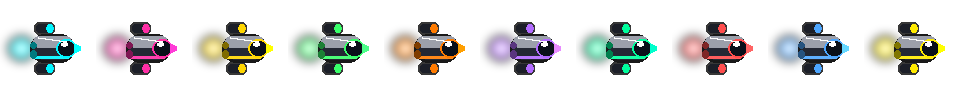
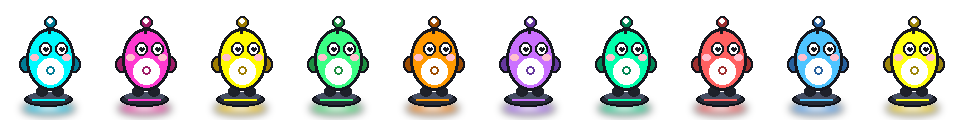
Arcade-kids art direction: pastel world, chibi hoverboarders, iso-extruded turf
- chars.png: chunky 3/4-view bean kids on hoverboards (big eyes, blush,
  antenna bobble) — lean into turns, squash-stretch bob, blob shadows
- floor.png: pastel periwinkle checker picnic-mat with candy sprinkles
- tile.png: rounded candy bevel overlay; territory alpha up for pop
- territory renders as extruded blocks: darker side faces + light top seam
  on exposed south/east edges (fake-isometric height)
- shards: candy crystals with white rims, facet shading, sparkle star
- palette bumped to saturated toy colors (matches sprite sheet)
- vignette/arena frame softened from black to soft purple
- v0.6.0-beta

diff --git a/index.html b/index.html
@@ -33,7 +33,7 @@
   #joyKnob{position:absolute;width:48px;height:48px;border-radius:50%;background:rgba(0,245,255,.85);box-shadow:0 0 16px #00f5ff;left:31px;top:31px}
   input{name:0}
   .stat-num{font-weight:900;font-size:20px;line-height:1}
-  .vignette{position:absolute;inset:0;pointer-events:none;background:radial-gradient(ellipse at center,transparent 55%,rgba(0,0,0,.55) 100%);z-index:5}
+  .vignette{position:absolute;inset:0;pointer-events:none;background:radial-gradient(ellipse at center,transparent 58%,rgba(45,35,100,.32) 100%);z-index:5}
   @keyframes blink{50%{opacity:.3}} .blink{animation:blink 1s infinite}
   /* ===== MAIN MENU ===== */
   .menu-body{max-height:min(62vh,600px);overflow-y:auto;padding:14px 16px;scrollbar-width:thin}
@@ -245,7 +245,7 @@
 // ===== CONSTANTS =====
 const W=54,H=54,CELL=24,DIRS=[[1,0],[-1,0],[0,1],[0,-1]];
 const BOT_NAMES=["VoidFox","NeonNinja","PixelPanda","GlitchQueen","TurboTurtle","CosmicCat","ShadowByte","MangoMantis","CyberWolf","LunaLynx"];
-const PALETTE=["#00f5ff","#ff2ea6","#ffd600","#39ff6a","#ff7b00","#b26bff","#00ff9d","#ff4d4d","#4da6ff","#ffea00"];
+const PALETTE=["#00c8f5","#ff2ea6","#ffc800","#2fe86a","#ff7b00","#a35bff","#00d98a","#ff4d4d","#3f9dff","#ffd80f"];
 const canvas=document.getElementById('game'),ctx=canvas.getContext('2d');
 let CW=0,CH=0,scale=1;
 function resize(){CW=canvas.width=innerWidth;CH=canvas.height=innerHeight;scale=CW<620?0.82:(CW<1000?0.95:1.08);} addEventListener('resize',resize);resize();
@@ -257,6 +257,7 @@ const IMG={};let floorPat=null;
 const idx=(x,y)=>y*W+x, inB=(x,y)=>x>=0&&x<W&&y>=0&&y<H;
 const rnd=(a,b)=>a+Math.random()*(b-a), rint=(a,b)=>Math.floor(rnd(a,b+1)), clamp=(v,a,b)=>Math.max(a,Math.min(b,v));
 function shuffle(a){for(let i=a.length-1;i>0;i--){const j=Math.floor(Math.random()*(i+1));[a[i],a[j]]=[a[j],a[i]];}return a;}
+function hexShade(hex,f){const n=parseInt(hex.slice(1),16);return `rgb(${clamp(((n>>16)&255)*f,0,255)|0},${clamp(((n>>8)&255)*f,0,255)|0},${clamp((n&255)*f,0,255)|0})`;}
 
 // ===== SAVE DATA (local profile, signed against casual tampering) =====
 const SaveData={
@@ -348,7 +349,7 @@ let state='menu',paused=false,shake=0,elapsed=0,botSpeedMul=1,player=null,leader
 let camX=W*CELL/2,camY=H*CELL/2;
 
 function makePlayer(name,color,isPlayer,palIdx){
-  const p={id:players.length,name,color,isPlayer,palIdx:palIdx||0,alive:false,x:0,y:0,dx:1,dy:0,pendx:0,pendy:0,trail:[],trailSet:new Set(),owned:0,shardBonus:0,shardsGot:0,kills:0,lastCX:-1,lastCY:-1,speed:isPlayer?7.4:rnd(6.0,7.3),deathTimer:0,spawnX:0,spawnY:0,ai:{insideSteps:rint(3,8),outSteps:0},pulse:rnd(0,6),peakOwned:0,tactical:'stim',ult:'nova',tacCD:0,ultCharge:30,ultPinged:false,stimT:0,phaseT:0,scanT:0,veilT:0,surgeT:0,inEnemy:false,_hr:1,_tg:0};
+  const p={id:players.length,name,color,isPlayer,palIdx:palIdx||0,colDark:hexShade(color,.5),colLight:hexShade(color,1.3),alive:false,x:0,y:0,dx:1,dy:0,pendx:0,pendy:0,trail:[],trailSet:new Set(),owned:0,shardBonus:0,shardsGot:0,kills:0,lastCX:-1,lastCY:-1,speed:isPlayer?7.4:rnd(6.0,7.3),deathTimer:0,spawnX:0,spawnY:0,ai:{insideSteps:rint(3,8),outSteps:0},pulse:rnd(0,6),peakOwned:0,tactical:'stim',ult:'nova',tacCD:0,ultCharge:30,ultPinged:false,stimT:0,phaseT:0,scanT:0,veilT:0,surgeT:0,inEnemy:false,_hr:1,_tg:0};
   players.push(p);return p;
 }
 function findSpawn(){
@@ -600,15 +601,24 @@ function render(){
   // arena floor texture + outer wall shading (top-down depth)
   if(IMG.floor){if(!floorPat)floorPat=ctx.createPattern(IMG.floor,'repeat');
     if(floorPat){ctx.fillStyle=floorPat;ctx.fillRect(0,0,W*CELL,H*CELL);}}
-  ctx.strokeStyle='rgba(0,0,0,.65)';ctx.lineWidth=20;ctx.strokeRect(-10,-10,W*CELL+20,H*CELL+20);
-  ctx.strokeStyle='rgba(255,255,255,.08)';ctx.lineWidth=2;ctx.strokeRect(1,1,W*CELL-2,H*CELL-2);
+  ctx.strokeStyle='rgba(70,55,130,.5)';ctx.lineWidth=20;ctx.strokeRect(-10,-10,W*CELL+20,H*CELL+20);
+  ctx.strokeStyle='rgba(255,255,255,.35)';ctx.lineWidth=2;ctx.strokeRect(1,1,W*CELL-2,H*CELL-2);
   // empty dots
-  ctx.fillStyle='rgba(255,255,255,.07)';
+  ctx.fillStyle='rgba(255,255,255,.3)';
   for(let y=y0;y<=y1;y++)for(let x=x0;x<=x1;x++)if(grid[idx(x,y)]===0)ctx.fillRect(x*CELL+CELL/2-1,y*CELL+CELL/2-1,2,2);
-  // owned cells — tinted texture tiles with bevel overlay
+  // owned cells — bright rounded candy tops
   for(let y=y0;y<=y1;y++)for(let x=x0;x<=x1;x++){const o=grid[idx(x,y)];if(!o)continue;const p=players[o-1];if(!p)continue;
-    ctx.globalAlpha=.55;ctx.fillStyle=p.color;ctx.fillRect(x*CELL,y*CELL,CELL,CELL);ctx.globalAlpha=1;
+    ctx.globalAlpha=.8;ctx.fillStyle=p.color;ctx.fillRect(x*CELL,y*CELL,CELL,CELL);ctx.globalAlpha=1;
     if(IMG.tile)ctx.drawImage(IMG.tile,x*CELL,y*CELL,CELL,CELL);}
+  // extruded side faces — fake-isometric height on exposed edges
+  const SIDE=7;
+  for(let y=y0;y<=y1;y++)for(let x=x0;x<=x1;x++){const o=grid[idx(x,y)];if(!o)continue;const p=players[o-1];if(!p)continue;
+    const xx=x*CELL,yy=y*CELL;
+    const sExp=!inB(x,y+1)||grid[idx(x,y+1)]!==o,eExp=!inB(x+1,y)||grid[idx(x+1,y)]!==o;
+    if(sExp){ctx.fillStyle=p.colDark;ctx.fillRect(xx,yy+CELL,CELL,SIDE);
+      ctx.globalAlpha=.5;ctx.fillStyle=p.colLight;ctx.fillRect(xx,yy+CELL,CELL,2);ctx.globalAlpha=1;}
+    if(eExp){ctx.fillStyle=p.colDark;ctx.fillRect(xx+CELL,yy,SIDE,CELL+(sExp?SIDE:0));}
+  }
   // border walls — dark 3D bevel base + crisp team-color edge (subtle pulse for own turf only)
   const pulse=.7+.3*Math.sin(elapsed*Math.PI*2.2);
   ctx.lineCap='round';
@@ -651,28 +661,28 @@ function render(){
     ctx.beginPath();ctx.moveTo(0,-q.size);ctx.lineTo(q.size, q.size*.7);ctx.lineTo(-q.size,q.size*.7);ctx.closePath();ctx.fill();ctx.restore();}
   // players
   for(const p of players){if(!p.alive)continue;const wx=p.x*CELL,wy=p.y*CELL;
-    // soft drop shadow (fake depth)
-    ctx.globalAlpha=.32;ctx.fillStyle='#000';ctx.beginPath();ctx.ellipse(wx+3,wy+7,10,6,0,0,Math.PI*2);ctx.fill();ctx.globalAlpha=1;
-    const bob=Math.sin(p.pulse*1.4)*1.6,ang=Math.atan2(p.dy,p.dx);
+    // soft blob shadow under the hoverboard
+    ctx.globalAlpha=.3;ctx.fillStyle='#000';ctx.beginPath();ctx.ellipse(wx,wy+11,12,5,0,0,Math.PI*2);ctx.fill();ctx.globalAlpha=1;
+    const bob=Math.sin(p.pulse*1.4)*2,lean=p.dx*.16+Math.sin(p.pulse*.7)*.04;
     ctx.globalAlpha=p.phaseT>0?.45:1;
     if(IMG.chars){
-      const fw=IMG.chars.width/10,sz=36*(p.stimT>0?1.08:1);
-      ctx.save();ctx.translate(wx,wy+bob);ctx.rotate(ang);
-      ctx.shadowColor=p.color;ctx.shadowBlur=10;
-      ctx.drawImage(IMG.chars,(p.palIdx||0)*fw,0,fw,IMG.chars.height,-sz/2,-sz/2,sz,sz);
+      const fw=IMG.chars.width/10,fh=IMG.chars.height;
+      const dw=56*(p.stimT>0?1.07:1),dh=dw*fh/fw;
+      ctx.save();ctx.translate(wx,wy+11+bob*.5);ctx.rotate(lean);ctx.scale(1+bob*.008,1-bob*.008);
+      ctx.shadowColor=p.color;ctx.shadowBlur=12;
+      ctx.drawImage(IMG.chars,(p.palIdx||0)*fw,0,fw,fh,-dw/2,-dh+4,dw,dh);
       ctx.restore();
     }else{ // fallback orb if sprites unavailable
       ctx.shadowColor=p.color;ctx.shadowBlur=18;ctx.fillStyle=p.color;
       ctx.beginPath();ctx.arc(wx,wy,10+1.5*Math.sin(p.pulse),0,Math.PI*2);ctx.fill();
       ctx.shadowBlur=0;ctx.fillStyle='#fff';ctx.beginPath();ctx.arc(wx,wy,5,0,Math.PI*2);ctx.fill();
-      ctx.fillStyle=p.color;ctx.beginPath();ctx.moveTo(wx+p.dx*16,wy+p.dy*16);ctx.lineTo(wx-p.dy*6,wy+p.dx*6);ctx.lineTo(wx+p.dy*6,wy-p.dx*6);ctx.closePath();ctx.fill();
     }
     ctx.globalAlpha=1;
-    if(p.surgeT>0){ctx.globalAlpha=.3+.15*Math.sin(elapsed*6);ctx.strokeStyle='#ffd600';ctx.lineWidth=2;ctx.beginPath();ctx.arc(wx,wy,20+4*Math.sin(elapsed*6),0,Math.PI*2);ctx.stroke();ctx.globalAlpha=1;}
+    if(p.surgeT>0){ctx.globalAlpha=.3+.15*Math.sin(elapsed*6);ctx.strokeStyle='#ffd600';ctx.lineWidth=2;ctx.beginPath();ctx.arc(wx,wy,22+4*Math.sin(elapsed*6),0,Math.PI*2);ctx.stroke();ctx.globalAlpha=1;}
     // name
     ctx.font='bold 11px sans-serif';ctx.textAlign='center';const tw=ctx.measureText(p.name).width;
-    ctx.fillStyle='rgba(0,0,0,.55)';ctx.fillRect(wx-tw/2-5,wy-36,tw+10,15);
-    ctx.fillStyle=p.isPlayer?'#fff':'rgba(255,255,255,.85)';ctx.fillText(p.name,wx,wy-24);}
+    ctx.fillStyle='rgba(0,0,0,.5)';ctx.fillRect(wx-tw/2-5,wy-56,tw+10,15);
+    ctx.fillStyle=p.isPlayer?'#fff':'rgba(255,255,255,.9)';ctx.fillText(p.name,wx,wy-44);}
   ctx.restore();
   // scan pulse: edge arrows + rings on rivals
   if(player&&player.alive&&player.scanT>0){
@@ -774,7 +784,7 @@ document.getElementById('soundBtn').onclick=e=>{soundOn=!soundOn;e.target.textCo
 document.getElementById('resetBtn').onclick=()=>{if(state==='play'||state==='over'){S.click();startGame();}};
 
 // ===== MENU / INTEGRITY =====
-const VERSION='0.5.0-beta';
+const VERSION='0.6.0-beta';
 const INTEGRITY=(()=>{
   function hash(s){let h=2166136261>>>0;for(let i=0;i<s.length;i++){h^=s.charCodeAt(i);h=Math.imul(h,16777619)>>>0;}return h.toString(16).padStart(8,'0');}
   const parts=()=>[W,H,CELL].join(',')+'␟'+[claim,shatterTerritory,kill,enterCell,applyPending,update,useTactical,useUlt,shatterNova].map(f=>f.toString()).join('␟');
@@ -784,7 +794,7 @@ const INTEGRITY=(()=>{
 try{Object.freeze(DIRS);Object.freeze(PALETTE);Object.freeze(BOT_NAMES);}catch(e){}
 function updIntegrity(){const el=document.getElementById('intgTxt');if(!el)return;const ok=INTEGRITY.ok;el.textContent=ok?'integrity ✓ '+INTEGRITY.hash:'integrity FAIL ⚠';el.style.color=ok?'#39ff6a':'#ff4d4d';el.style.textShadow=ok?'0 0 8px rgba(57,255,106,.5)':'0 0 8px rgba(255,77,77,.6)';}
 function selTab(t){document.querySelectorAll('.menu-tab').forEach(b=>b.classList.toggle('active',b.dataset.tab===t));document.querySelectorAll('.tab-page').forEach(p=>p.classList.toggle('hidden',p.id!=='tab-'+t));if(t==='stats')fillStats();}
-function buildSkins(){const g=document.getElementById('skinGrid');if(!g)return;g.innerHTML='';PALETTE.forEach((c,i)=>{const b=document.createElement('button');b.className='swatch'+(SaveData.data.colorIdx===i?' sel':'');b.style.background=c;b.style.color=c;b.title=c;b.onclick=()=>{initAudio();S.click();SaveData.data.colorIdx=i;SaveData.save();if(player&&state==='menu'){player.color=c;player.palIdx=i;}buildSkins();};g.appendChild(b);});}
+function buildSkins(){const g=document.getElementById('skinGrid');if(!g)return;g.innerHTML='';PALETTE.forEach((c,i)=>{const b=document.createElement('button');b.className='swatch'+(SaveData.data.colorIdx===i?' sel':'');b.style.background=c;b.style.color=c;b.title=c;b.onclick=()=>{initAudio();S.click();SaveData.data.colorIdx=i;SaveData.save();if(player&&state==='menu'){player.color=c;player.palIdx=i;player.colDark=hexShade(c,.5);player.colLight=hexShade(c,1.3);}buildSkins();};g.appendChild(b);});}
 function fillStats(){const s=SaveData.data.stats,set=(id,v)=>{const el=document.getElementById(id);if(el)el.textContent=v;};
   set('stBestTerr',s.bestTerr.toFixed(1)+'%');set('stBestScore',s.bestScore.toFixed(1)+'%');set('stGames',s.games);set('stKills',s.kills);set('stShards',s.shards);set('stShatters',s.shatters);}
 function buildAbilities(){

diff --git a/tools/make_sprites.py b/tools/make_sprites.py
@@ -1,6 +1,6 @@
 #!/usr/bin/env python3
-"""TerritoryShatter sprite pipeline — renders top-down art to art/.
-Deterministic. Requires Pillow + numpy.
+"""TerritoryShatter sprite pipeline (arcade-kids edition) — renders to art/.
+Chunky pastel top-down/isometric assets. Deterministic. Requires Pillow + numpy.
 Usage: python tools/make_sprites.py
 """
 import os, math
@@ -10,130 +10,139 @@ from PIL import Image, ImageDraw, ImageFilter
 OUT = os.path.join(os.path.dirname(__file__), '..', 'art')
 os.makedirs(OUT, exist_ok=True)
 rng = np.random.default_rng(13371)
-PALETTE = ["#00f5ff", "#ff2ea6", "#ffd600", "#39ff6a", "#ff7b00",
-           "#b26bff", "#00ff9d", "#ff4d4d", "#4da6ff", "#ffea00"]
+PALETTE = ["#00c8f5", "#ff2ea6", "#ffc800", "#2fe86a", "#ff7b00",
+           "#a35bff", "#00d98a", "#ff4d4d", "#3f9dff", "#ffd80f"]
 
 def hex2rgb(h):
     h = h.lstrip('#')
     return tuple(int(h[i:i+2], 16) for i in (0, 2, 4))
 
-# ---------- floor tile (dark carbon-metal, tileable) ----------
+def lite(c, f=1.35): return tuple(min(255, int(v * f)) for v in c)
+def dark(c, f=.55):  return tuple(int(v * f) for v in c)
+
+# ---------- pastel picnic floor (arcade, tileable) ----------
 def floor_tile():
     s = 128
     base = np.zeros((s, s, 3), float)
-    base[:] = (13, 13, 26)
-    noise = rng.normal(0, 5, (s, s, 1))
-    base += noise
-    # faint brush streaks
     yy = np.arange(s)[:, None]; xx = np.arange(s)[None, :]
-    base += 3 * np.sin((xx * .7 + yy * .35) * .35)[..., None]
-    # sparse micro-dots
-    dots = rng.random((s, s, 1)) > .9975
-    base += dots * 38
-    # beveled seam: 1px darker border (tileable -> consistent grid seams)
-    base[0, :] = base[0, :] * .55; base[:, 0] = base[:, 0] * .55
-    img = Image.fromarray(np.clip(base, 0, 255).astype('uint8'))
-    img.save(os.path.join(OUT, 'floor.png'))
-    print('  floor.png')
-
-# ---------- territory tile bevel overlay ----------
-def tile_overlay():
-    s = 64
-    img = Image.new('RGBA', (s, s), (0, 0, 0, 0))
+    checker = ((xx // 16 + yy // 16) % 2).astype(float)[..., None]
+    base[:] = (178, 188, 238)      # periwinkle
+    base -= checker * 10
+    base += rng.normal(0, 3, (s, s, 1))
+    # white polka dots
+    dots = rng.random((s, s, 1)) > .996
+    base += dots * 70
+    img = Image.fromarray(np.clip(base, 0, 255).astype('uint8')).convert('RGBA')
     d = ImageDraw.Draw(img)
-    # inner shading: soft dark corners
-    shade = Image.new('L', (s, s), 0)
-    ds = ImageDraw.Draw(shade)
-    ds.rectangle([0, 0, s - 1, s - 1], outline=70, width=3)
-    shade = shade.filter(ImageFilter.GaussianBlur(3))
-    img.paste((0, 0, 0), (0, 0), shade)
-    # top/left light bevel
-    d.line([1, 1, s - 2, 1], fill=(255, 255, 255, 70), width=2)
-    d.line([1, 1, 1, s - 2], fill=(255, 255, 255, 55), width=2)
-    # bottom/right dark bevel
-    d.line([1, s - 2, s - 2, s - 2], fill=(0, 0, 0, 110), width=2)
-    d.line([s - 2, 1, s - 2, s - 2], fill=(0, 0, 0, 100), width=2)
-    # central sheen
-    sheen = Image.new('L', (s, s), 0)
-    ImageDraw.Draw(sheen).ellipse([s * .25, s * .12, s * .75, s * .55], fill=34)
-    sheen = sheen.filter(ImageFilter.GaussianBlur(10))
-    img.paste((255, 255, 255), (0, 0), sheen)
-    img.save(os.path.join(OUT, 'tile.png'))
-    print('  tile.png')
+    # candy sprinkles (short colored dashes, sparse)
+    sprinkle_cols = [(255, 150, 170), (140, 235, 195), (255, 225, 130), (165, 215, 255)]
+    for _ in range(14):
+        x, y = int(rng.integers(2, s - 6)), int(rng.integers(2, s - 6))
+        col = sprinkle_cols[int(rng.integers(0, 4))]
+        a = float(rng.random() * math.pi)
+        dx, dy = math.cos(a) * 3, math.sin(a) * 3
+        d.line([x, y, x + dx, y + dy], fill=col + (150,), width=2)
+    img.convert('RGB').save(os.path.join(OUT, 'floor.png'))
+    print('  floor.png (pastel)')
 
-# ---------- crystal shards ----------
+# ---------- rounded tile bevel overlay ----------
+def tile_overlay():
+    s = 64; r = 13
+    img = Image.new('RGBA', (s, s), (0, 0, 0, 0))
+    # soft corner shadow outside the rounded top face
+    mask = Image.new('L', (s, s), 0)
+    ImageDraw.Draw(mask).rounded_rectangle([1, 1, s - 2, s - 2], radius=r, fill=255)
+    face = Image.new('RGBA', (s, s), (0, 0, 0, 0))
+    d = ImageDraw.Draw(face)
+    d.line([r * .6, 2, s - r * .6, 2], fill=(255, 255, 255, 110), width=3)             # top gloss
+    d.line([2, r * .6, 2, s - r * .6], fill=(255, 255, 255, 70), width=3)              # left gloss
+    d.line([r * .5, s - 3, s - r * .5, s - 3], fill=(0, 0, 0, 90), width=3)            # bottom shade
+    d.line([s - 3, r * .5, s - 3, s - r * .5], fill=(0, 0, 0, 80), width=3)            # right shade
+    sheen = Image.new('L', (s, s), 0)
+    ImageDraw.Draw(sheen).ellipse([10, 6, s - 18, s * .45], fill=42)
+    sheen = sheen.filter(ImageFilter.GaussianBlur(8))
+    face.paste((255, 255, 255), (0, 0), sheen)
+    face.putalpha(Image.composite(face.getchannel('A'), Image.new('L', (s, s), 0), mask))
+    img.alpha_composite(face)
+    img.save(os.path.join(OUT, 'tile.png'))
+    print('  tile.png (rounded)')
+
+# ---------- candy crystal shards ----------
 def shard(name, col):
     s = 48
     img = Image.new('RGBA', (s, s), (0, 0, 0, 0))
-    glow = Image.new('RGBA', (s, s), (0, 0, 0, 0))
-    gd = ImageDraw.Draw(glow)
     c = hex2rgb(col)
-    gd.polygon([(s//2, 6), (s - 12, s//2), (s//2, s - 6), (12, s//2)], fill=c + (200,))
-    glow = glow.filter(ImageFilter.GaussianBlur(6))
-    img.alpha_composite(glow)
+    glow = Image.new('RGBA', (s, s), (0, 0, 0, 0))
+    ImageDraw.Draw(glow).polygon([(s//2, 4), (s - 10, s//2), (s//2, s - 4), (10, s//2)], fill=c + (220,))
+    img.alpha_composite(glow.filter(ImageFilter.GaussianBlur(7)))
     d = ImageDraw.Draw(img)
-    dark = tuple(int(v * .55) for v in c)
-    lite = tuple(min(255, int(v * 1.35)) for v in c)
-    # facets
-    d.polygon([(s//2, 6), (s - 12, s//2), (s//2, s - 6), (12, s//2)], fill=c + (255,), outline=(0, 0, 0, 160))
-    d.polygon([(s//2, 6), (s//2, s - 6), (12, s//2)], fill=dark + (255,))     # left facet
-    d.polygon([(s//2, 6), (s - 12, s//2), (s//2, s - 6)], fill=lite + (255,))  # right facet
-    d.polygon([(s//2, 10), (s//2 + 5, s//2), (s//2, s - 10), (s//2 - 5, s//2)], fill=(255, 255, 255, 90))
-    # glint
-    d.ellipse([s//2 - 2, 11, s//2 + 3, 16], fill=(255, 255, 255, 230))
+    dk, lt = dark(c, .6), lite(c, 1.4)
+    d.polygon([(s//2, 5), (s - 11, s//2), (s//2, s - 5), (11, s//2)], fill=c + (255,), outline=(255, 255, 255, 200), width=2)
+    d.polygon([(s//2, 5), (s//2, s - 5), (11, s//2)], fill=dk + (255,))
+    d.polygon([(s//2, 5), (s - 11, s//2), (s//2, s - 5)], fill=lt + (255,))
+    d.polygon([(s//2, 9), (s//2 + 5, s//2), (s//2, s - 9), (s//2 - 5, s//2)], fill=(255, 255, 255, 110))
+    # sparkle star
+    d.line([s//2 - 6, 14, s//2 + 2, 14], fill=(255, 255, 255, 255), width=2)
+    d.line([s//2 - 2, 10, s//2 - 2, 18], fill=(255, 255, 255, 255), width=2)
     img.save(os.path.join(OUT, f'{name}.png'))
-    print(f'  {name}.png')
+    print(f'  {name}.png (candy)')
 
-# ---------- top-down character (faces +X) ----------
+# ---------- chibi hoverboard kid (3/4 view, front-facing, feet anchor bottom) ----------
 def char_frame(col):
-    s = 96
-    img = Image.new('RGBA', (s, s), (0, 0, 0, 0))
-    c = hex2rgb(col)
-    lite = tuple(min(255, int(v * 1.3)) for v in c)
-    dark = tuple(int(v * .5) for v in c)
+    """96x120 RGBA. Anchor = board center (48,102)."""
+    s, c = 96, hex2rgb(col)
+    img = Image.new('RGBA', (s, 120), (0, 0, 0, 0))
+    dk, lt = dark(col and c, .62), lite(c, 1.25)
 
-    # thruster glow (rear)
-    glow = Image.new('RGBA', (s, s), (0, 0, 0, 0))
-    gd = ImageDraw.Draw(glow)
-    gd.ellipse([8, 36, 34, 60], fill=c + (220,))
-    gd.ellipse([14, 42, 28, 54], fill=(255, 255, 255, 230))
-    glow = glow.filter(ImageFilter.GaussianBlur(5))
-    img.alpha_composite(glow)
+    # hover glow under the board
+    glow = Image.new('RGBA', (s, 120), (0, 0, 0, 0))
+    ImageDraw.Draw(glow).ellipse([22, 102, 74, 114], fill=c + (190,))
+    ImageDraw.Draw(glow).ellipse([36, 104, 60, 110], fill=(255, 255, 255, 210))
+    img.alpha_composite(glow.filter(ImageFilter.GaussianBlur(4)))
 
     d = ImageDraw.Draw(img)
-    # wing pods (top/bottom)
-    for y0, y1 in [(22, 34), (62, 74)]:
-        d.rounded_rectangle([34, y0, 54, y1], radius=5, fill=(28, 31, 40, 255), outline=(0, 0, 0, 200), width=2)
-        d.ellipse([46, y0 + 2, 53, y1 - 2], fill=c + (255,))
-    # hull
-    d.rounded_rectangle([30, 34, 74, 62], radius=14, fill=(36, 40, 52, 255), outline=(0, 0, 0, 230), width=3)
-    d.rounded_rectangle([33, 36, 71, 47], radius=10, fill=(74, 82, 102, 140))  # top light
-    # colored belly stripe
-    d.line([34, 57, 68, 57], fill=c + (230,), width=3)
-    # canopy + rim + glint
-    d.ellipse([56, 39, 76, 57], fill=(10, 16, 26, 255), outline=c + (255,), width=2)
-    d.ellipse([61, 42, 67, 46], fill=(255, 255, 255, 220))
-    # nose tip
-    d.polygon([(74, 43), (84, 48), (74, 53)], fill=lite + (255,))
-    d.ellipse([81, 46, 84, 50], fill=(255, 255, 255, 255))
-    # specular spine
-    d.line([38, 37, 66, 41], fill=(255, 255, 255, 90), width=2)
-    # rim accents near rear
-    d.ellipse([30, 42, 36, 48], fill=dark + (255,)); d.ellipse([30, 50, 36, 58], fill=dark + (255,))
+    # hoverboard
+    d.ellipse([24, 92, 72, 106], fill=(38, 42, 54, 255), outline=(15, 17, 24, 255), width=2)
+    d.ellipse([28, 92, 68, 100], fill=(70, 78, 98, 255))
+    d.line([32, 99, 64, 99], fill=lt + (255,), width=2)          # color stripe
+    # feet
+    d.ellipse([36, 86, 47, 96], fill=(30, 33, 42, 255))
+    d.ellipse([52, 86, 63, 96], fill=(30, 33, 42, 255))
+    # arms
+    d.ellipse([19, 56, 31, 72], fill=dk + (255,), outline=(20, 20, 28, 255), width=2)
+    d.ellipse([68, 56, 80, 72], fill=dk + (255,), outline=(20, 20, 28, 255), width=2)
+    # chunky bean body: outline stub then fill
+    d.ellipse([26, 28, 74, 90], fill=(22, 24, 32, 255))
+    d.ellipse([29, 31, 71, 87], fill=lt + (255,))
+    # belly patch
+    d.ellipse([37, 58, 63, 84], fill=(255, 255, 255, 235))
+    # eyes (big, cute) + cheek blush
+    for ex in (39, 55):
+        d.ellipse([ex, 42, ex + 12, 55], fill=(255, 255, 255, 255), outline=(22, 24, 32, 255), width=2)
+        d.ellipse([ex + 4, 46, ex + 9, 51], fill=(24, 26, 34, 255))
+        d.ellipse([ex + 6, 45, ex + 8, 47], fill=(255, 255, 255, 255))
+    d.ellipse([30, 54, 38, 60], fill=(255, 120, 150, 120))
+    d.ellipse([62, 54, 70, 60], fill=(255, 120, 150, 120))
+    # antenna + bobble
+    d.line([49, 24, 49, 33], fill=(22, 24, 32, 255), width=3)
+    d.ellipse([44, 16, 56, 28], fill=dk + (255,), outline=(22, 24, 32, 255), width=2)
+    d.ellipse([47, 18, 52, 23], fill=(255, 255, 255, 220))
+    # sticker on belly
+    d.ellipse([46, 66, 54, 74], fill=dk + (255,))
+    d.ellipse([48, 68, 52, 72], fill=(255, 255, 255, 200))
     return img
 
 def chars_sheet():
-    frame = char_frame(PALETTE[0])
-    fw, fh = frame.size
+    fw, fh = 96, 120
     sheet = Image.new('RGBA', (fw * len(PALETTE), fh), (0, 0, 0, 0))
     for i, col in enumerate(PALETTE):
         sheet.paste(char_frame(col), (i * fw, 0))
     sheet.save(os.path.join(OUT, 'chars.png'))
-    print('  chars.png  (10 frames)')
+    print('  chars.png (10 chibi frames)')
 
 if __name__ == '__main__':
-    print('Rendering TerritoryShatter top-down art ->', os.path.abspath(OUT))
+    print('Rendering TerritoryShatter arcade art ->', os.path.abspath(OUT))
     floor_tile(); tile_overlay()
-    shard('shard_gold', '#ffd600'); shard('shard_cyan', '#00f5ff')
+    shard('shard_gold', '#ffc800'); shard('shard_cyan', '#00d5f5')
     chars_sheet()
     print('Done.')
